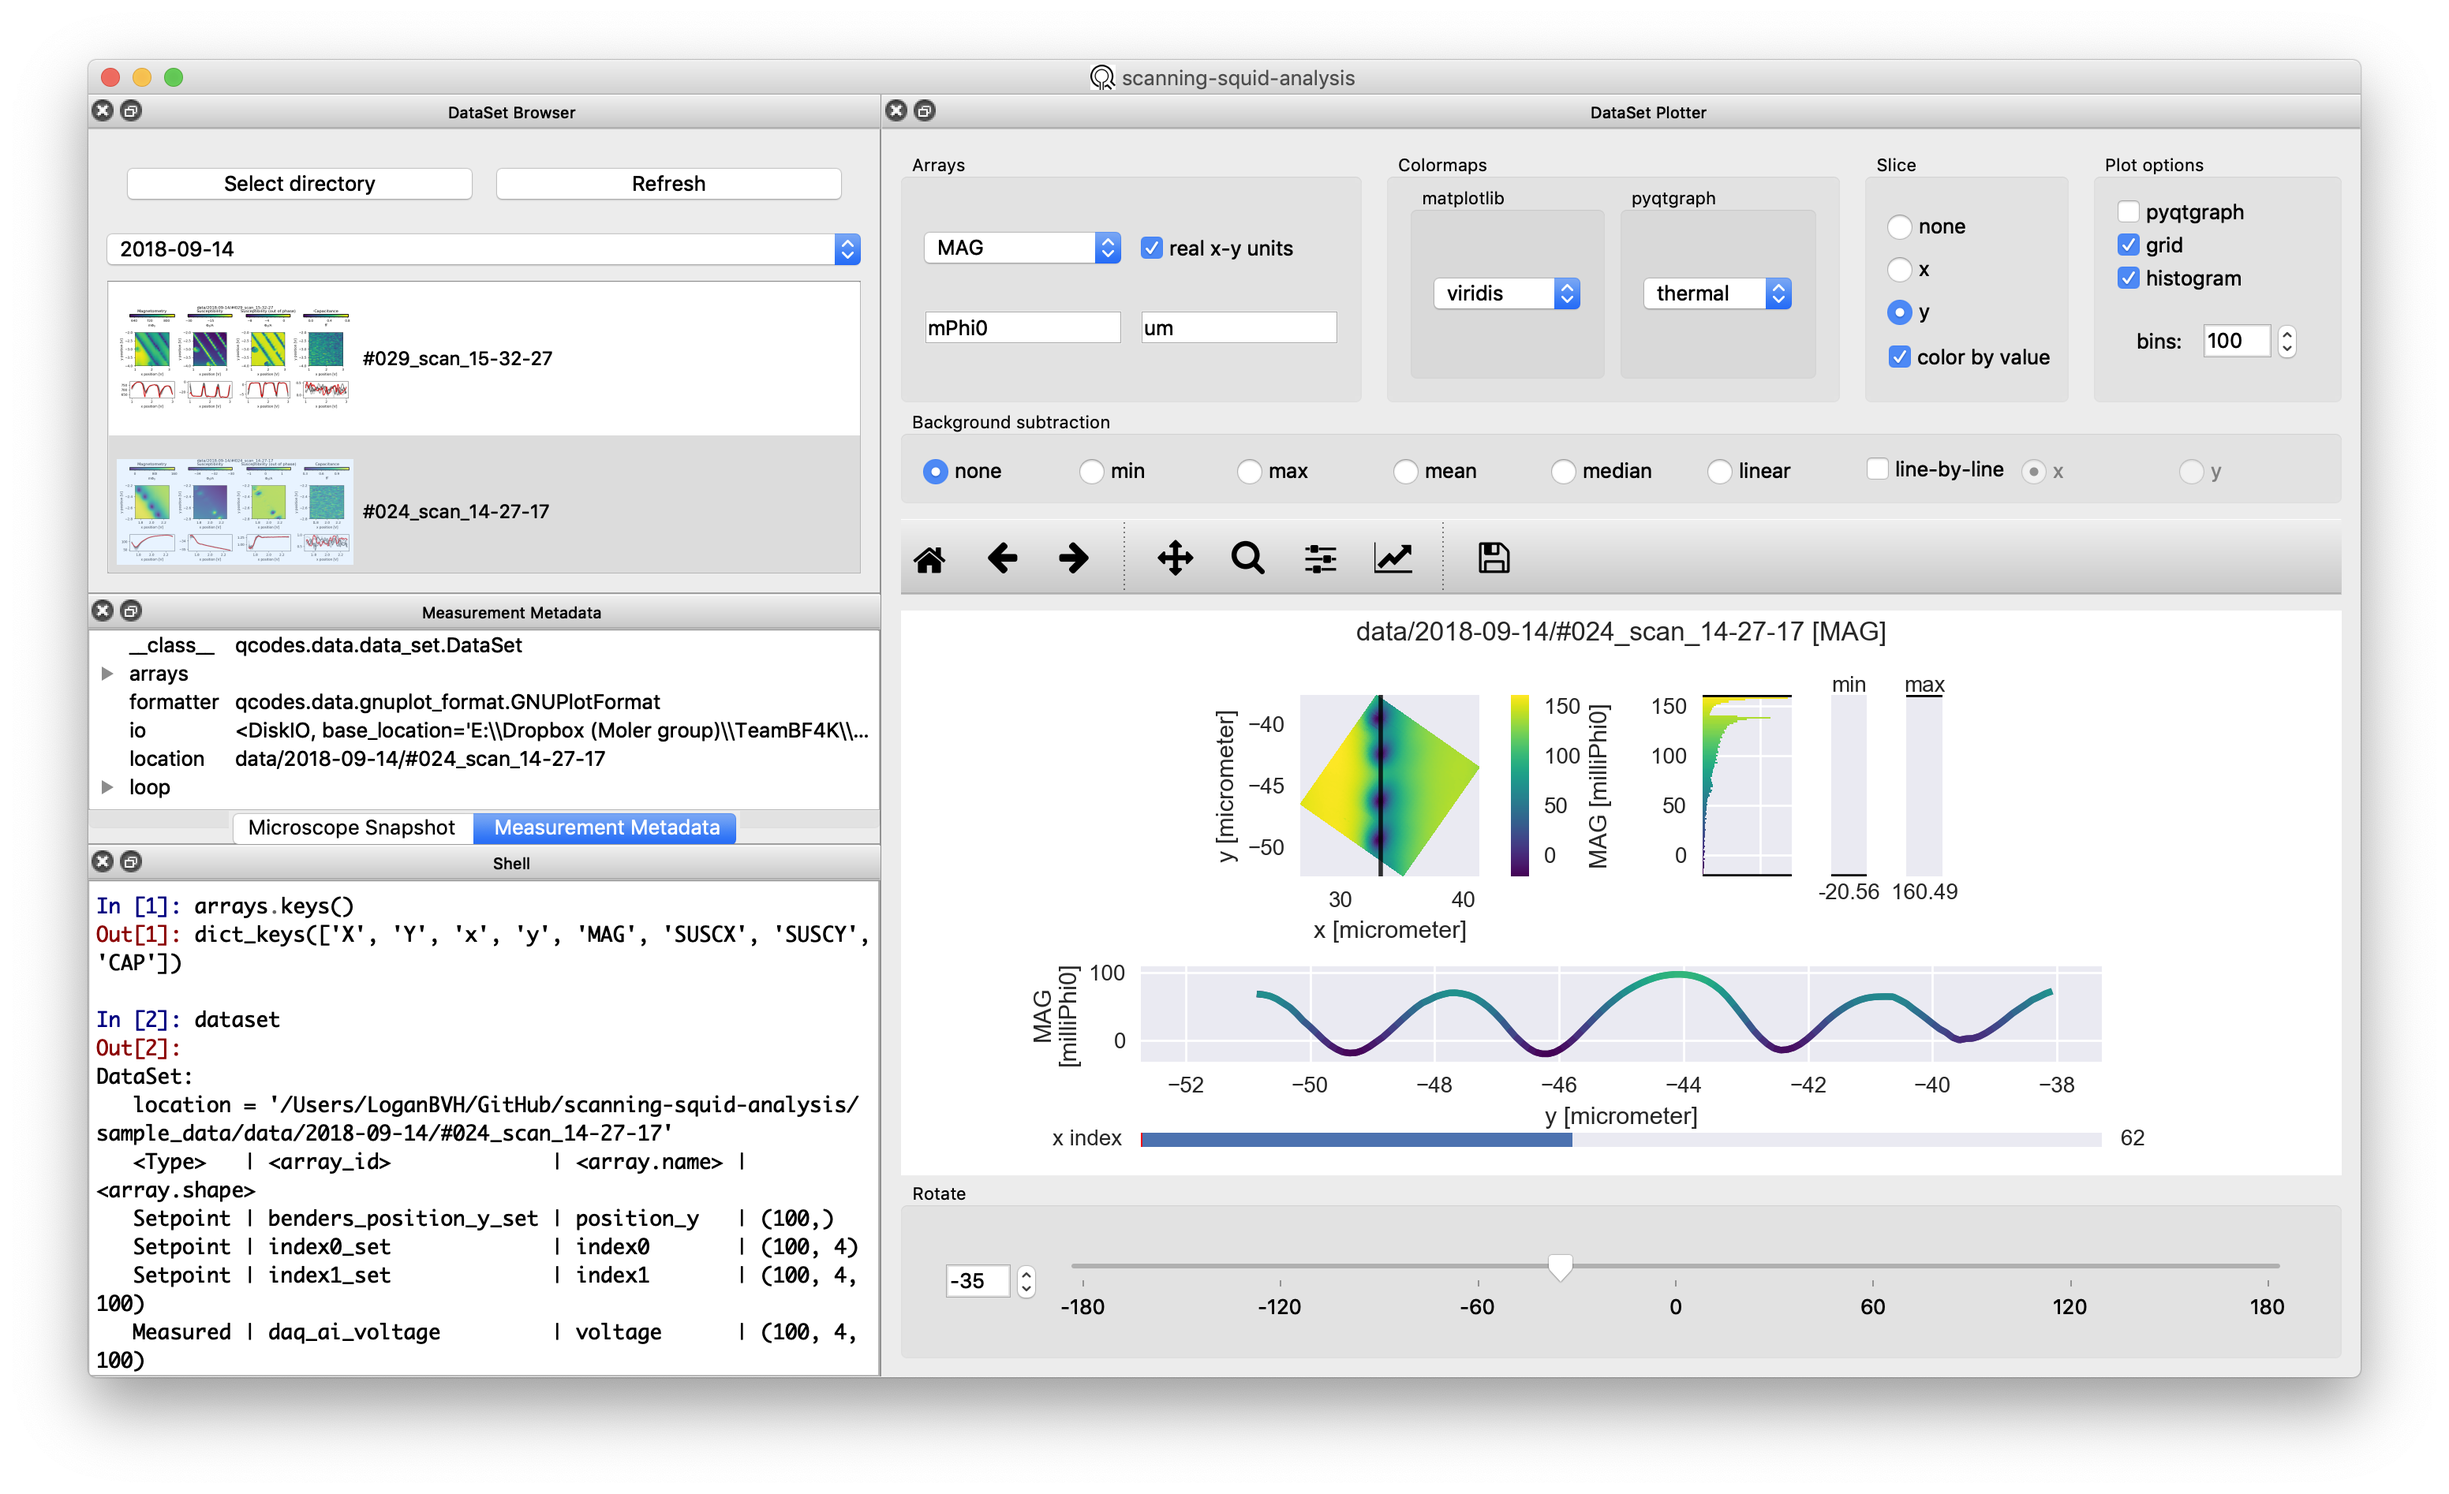
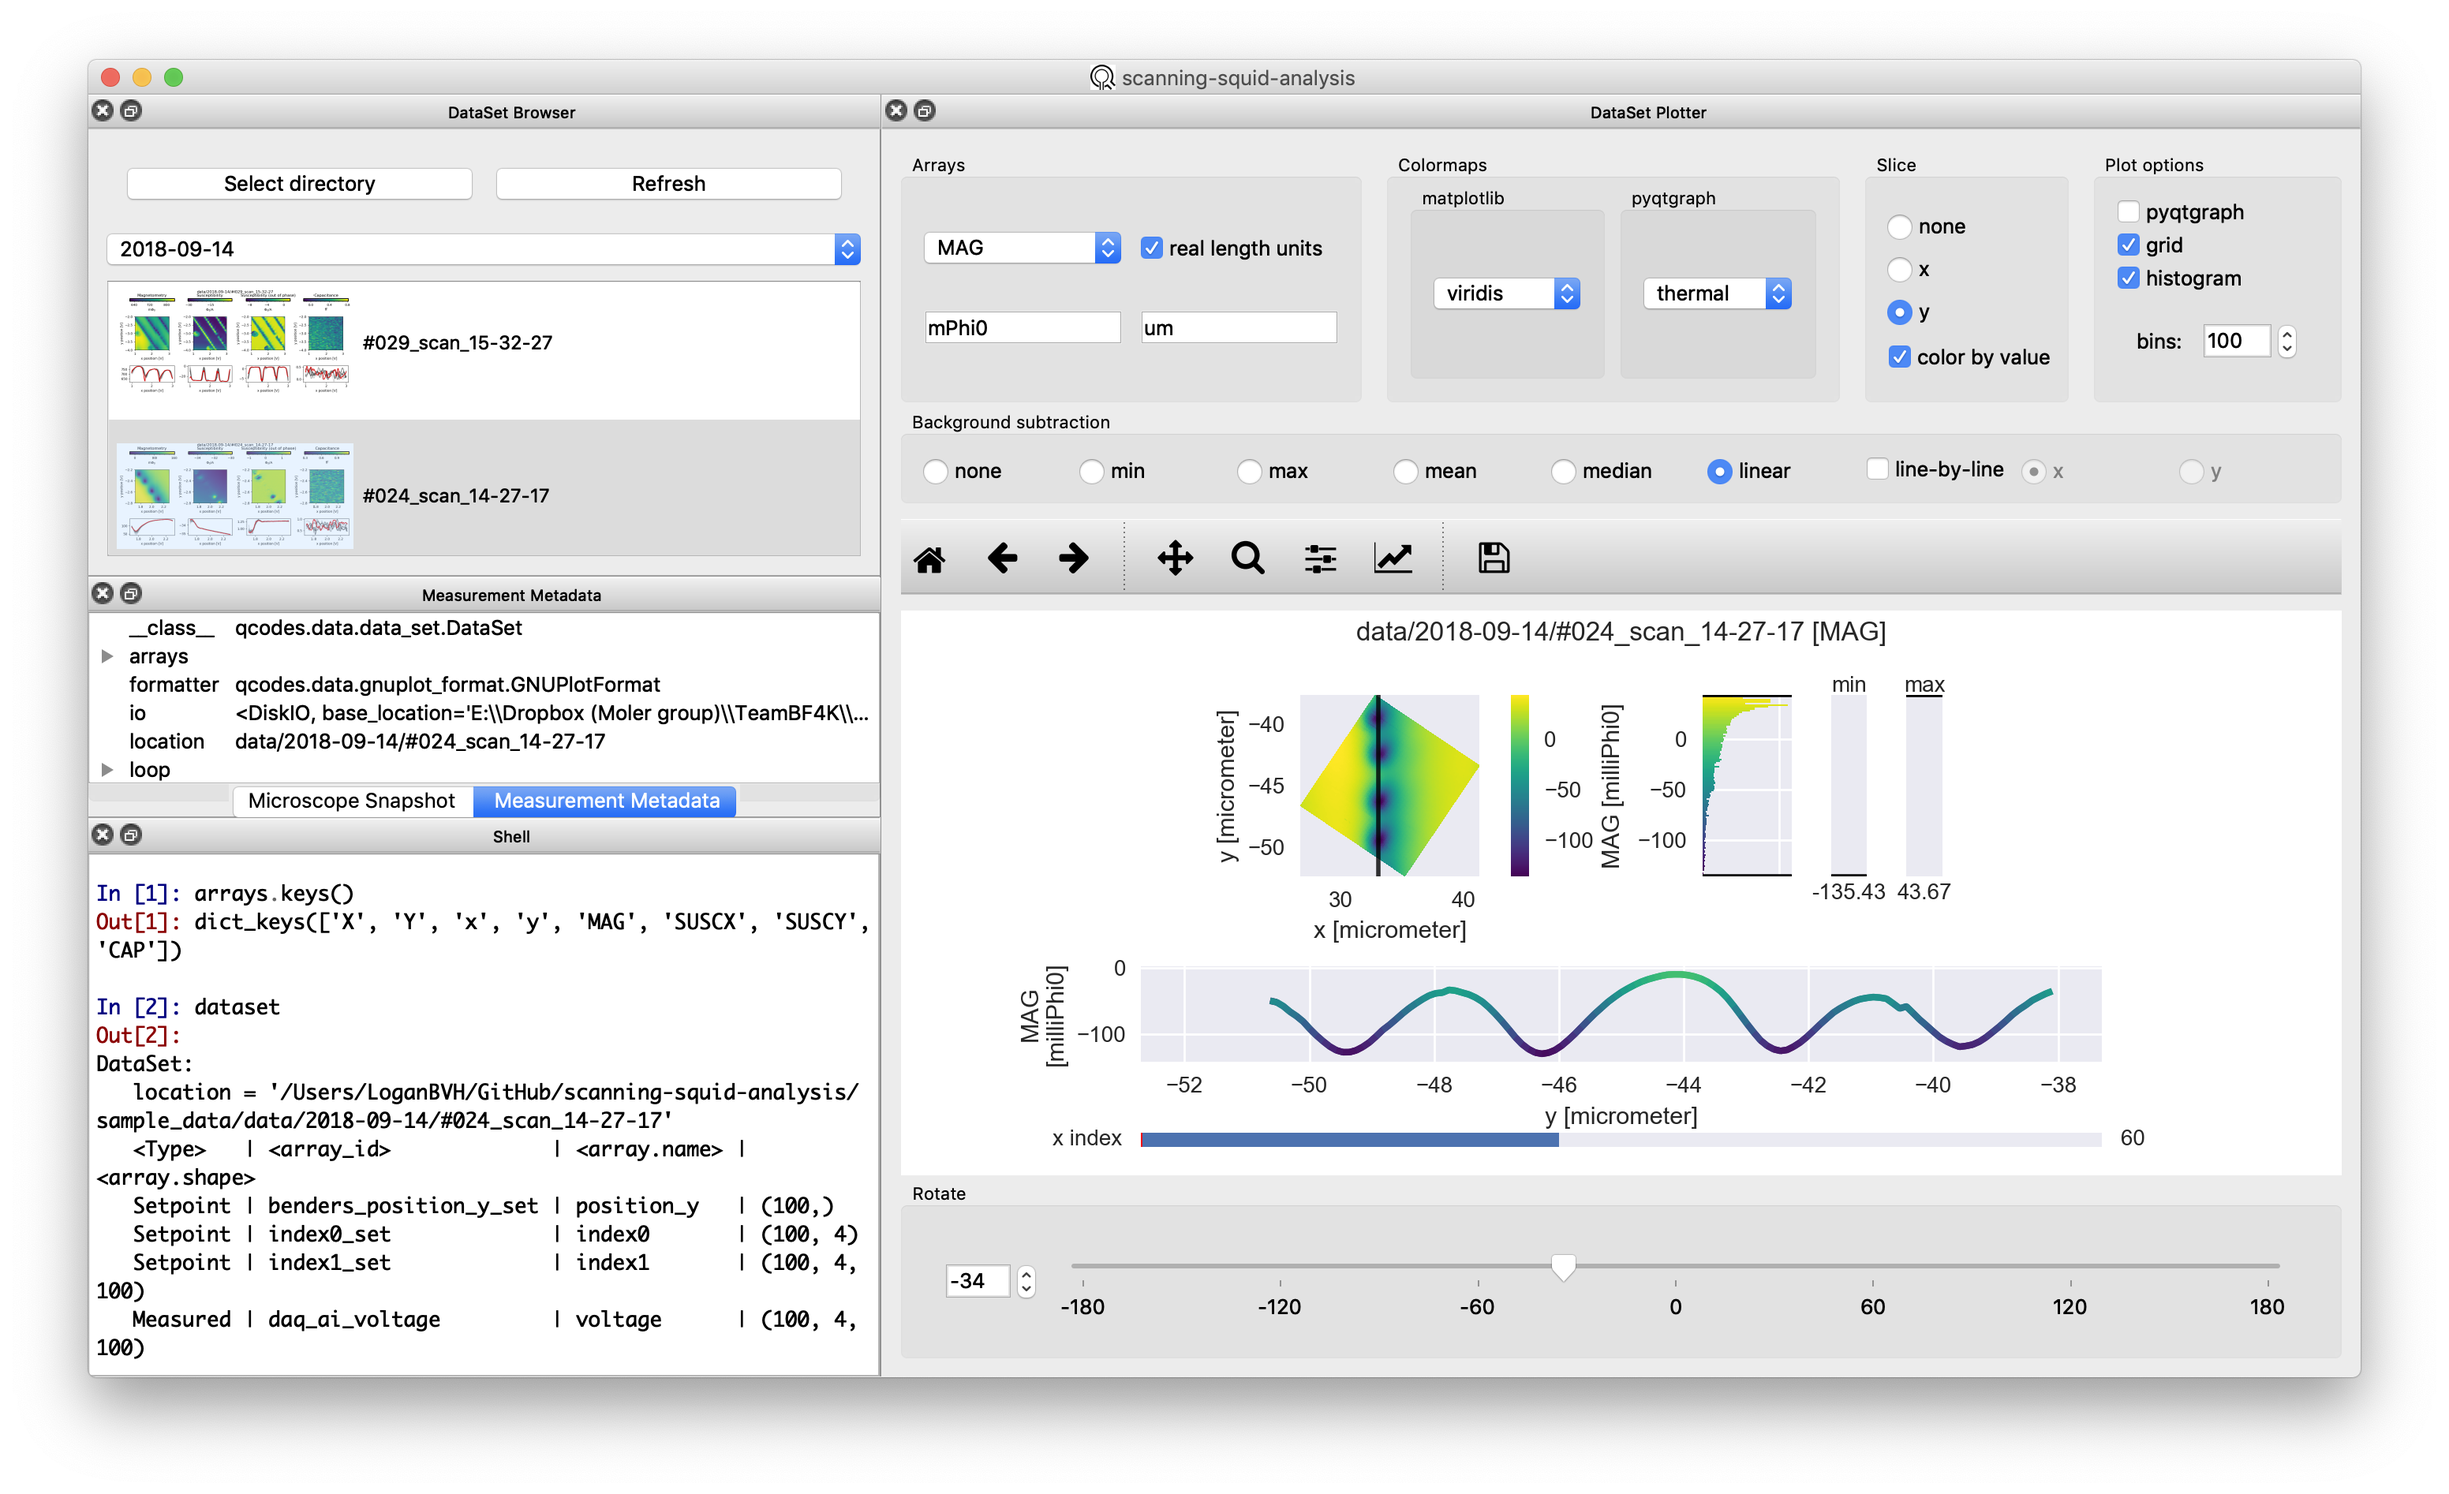
change 'real x-y units' to 'real length units'

diff --git a/gui/widgets/plots.py b/gui/widgets/plots.py
@@ -918,21 +918,15 @@ class DataSetPlotter(PlotWidget):
         self.units.returnPressed.connect(self.replot)
         arrays_layout.addWidget(self.units, 1, 0)
 
-        self.xy_units_box = QtWidgets.QCheckBox('real x-y units')
+        self.xy_units_box = QtWidgets.QCheckBox('real length units')
         self.xy_units_box.setChecked(False)
         self.xy_units = QtWidgets.QLineEdit()
         self.xy_units.setText('Length unit')
         self.xy_units.setEnabled(False)
-        arrays_layout.addWidget(self.xy_units_box, 0, 1)
-        arrays_layout.addWidget(self.xy_units, 1, 1)
-        # xy_units_widget = QtWidgets.QWidget()
-        # xy_units_layout = QtWidgets.QVBoxLayout()
-        # xy_units_widget.setLayout(xy_units_layout)
-        # xy_units_layout.addWidget(self.xy_units_box)
-        # xy_units_layout.addWidget(self.xy_units)
-        #arrays_layout.addWidget(xy_units_widget)
         self.xy_units_box.stateChanged.connect(self.update_xy_units)
         self.xy_units.returnPressed.connect(self.replot)
+        arrays_layout.addWidget(self.xy_units_box, 0, 1)
+        arrays_layout.addWidget(self.xy_units, 1, 1)
 
     def get_arrays(self):
         """Create a dict of arrays from self.dataset.
